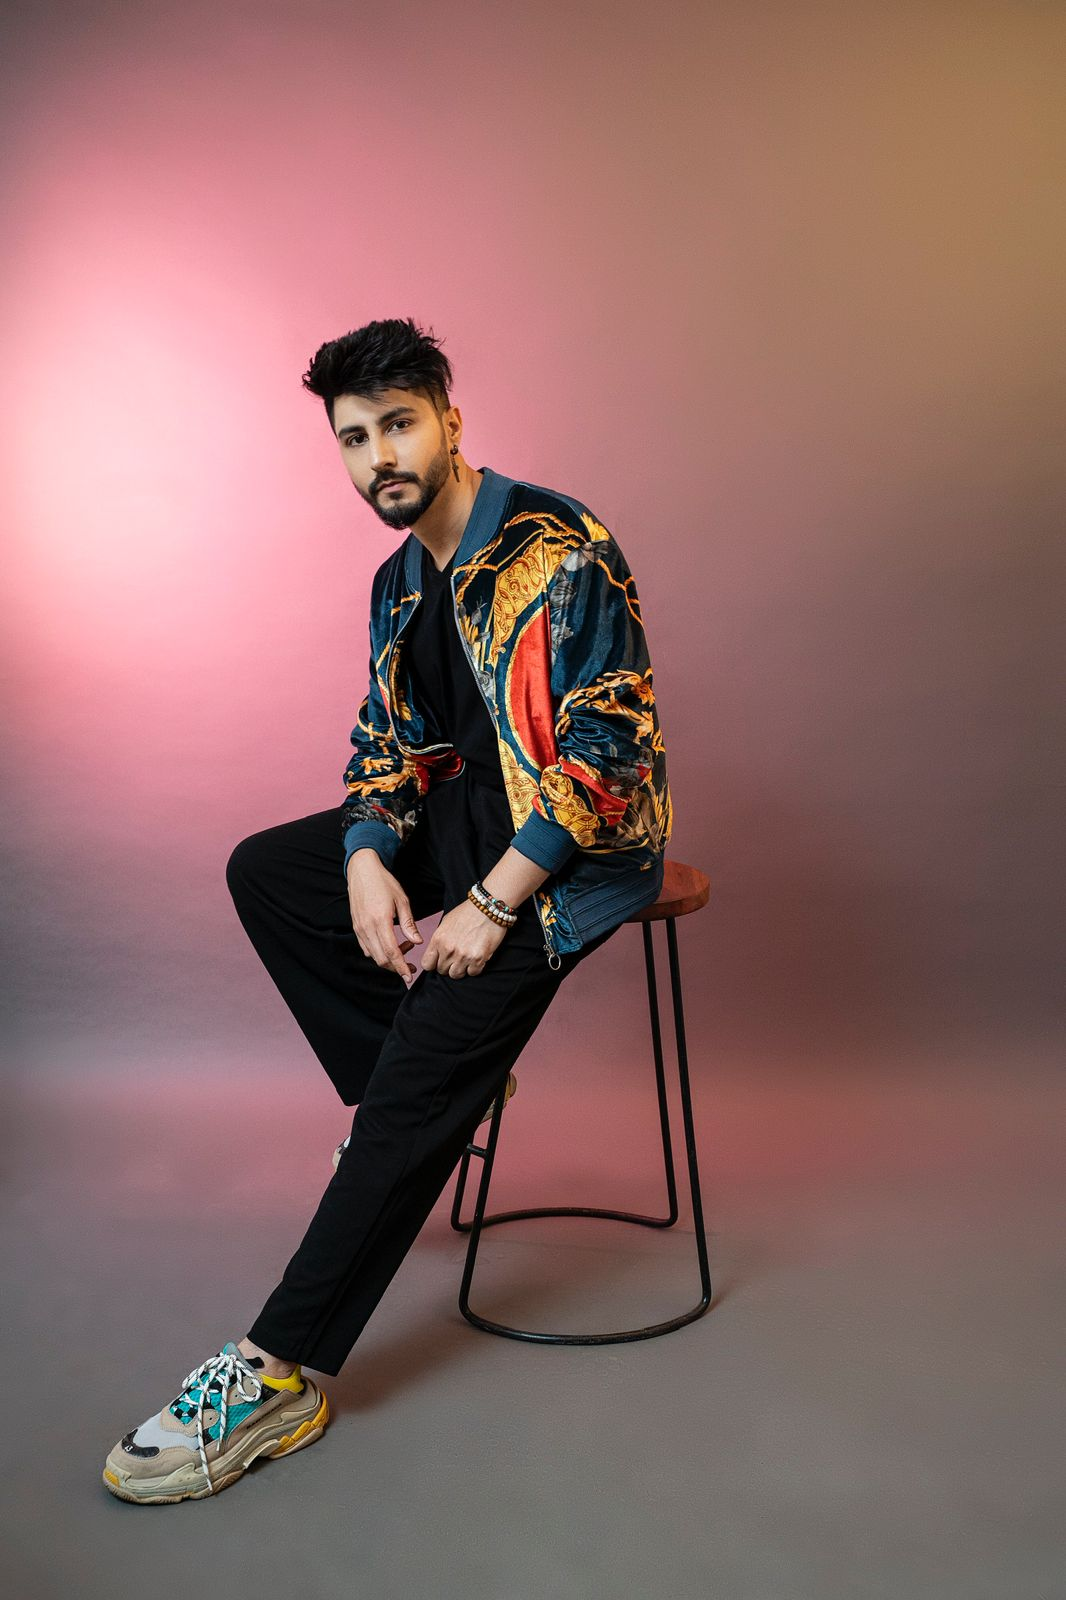
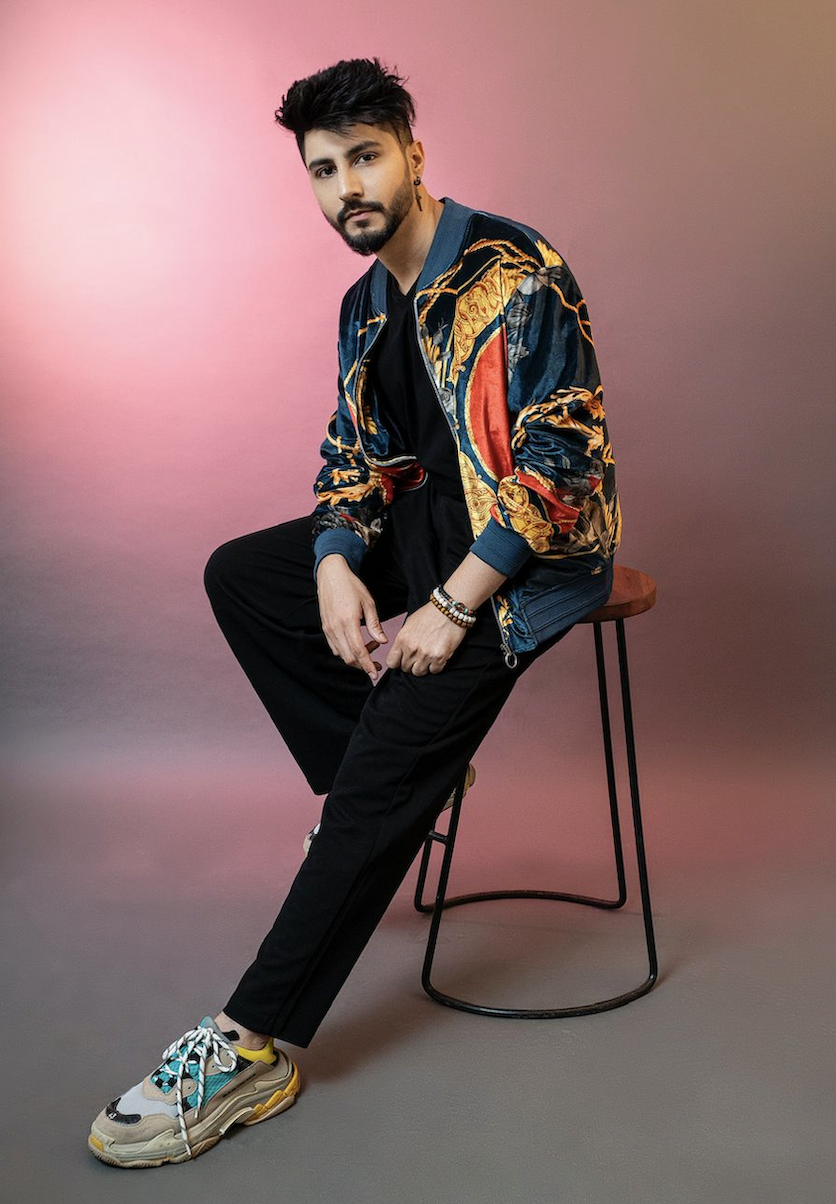
updated the nbews section image and about image.

diff --git a/css/style.css b/css/style.css
@@ -542,8 +542,8 @@ p {
 
 .image-frame img {
     width: 100%;
-    aspect-ratio: 3/4;
-    object-fit: cover;
+    height: auto;
+    display: block;
     filter: grayscale(20%);
     transition: filter var(--transition-slow), transform 0.4s ease;
 }
